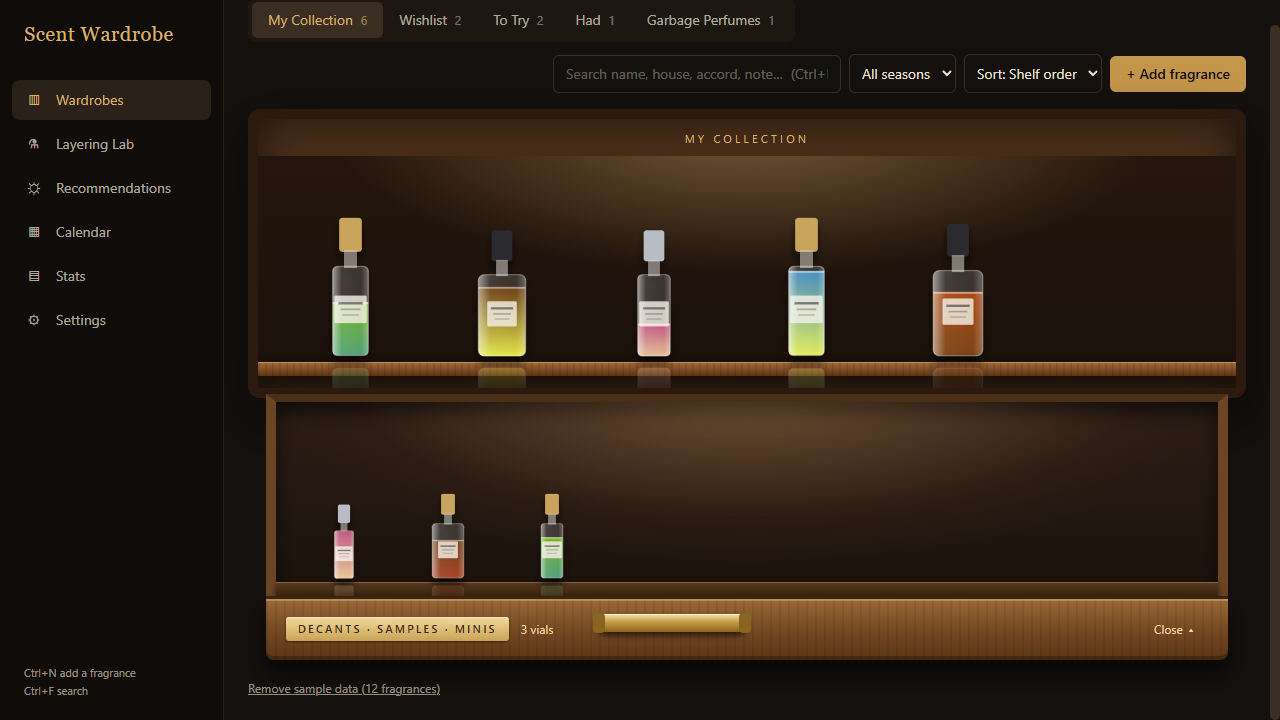
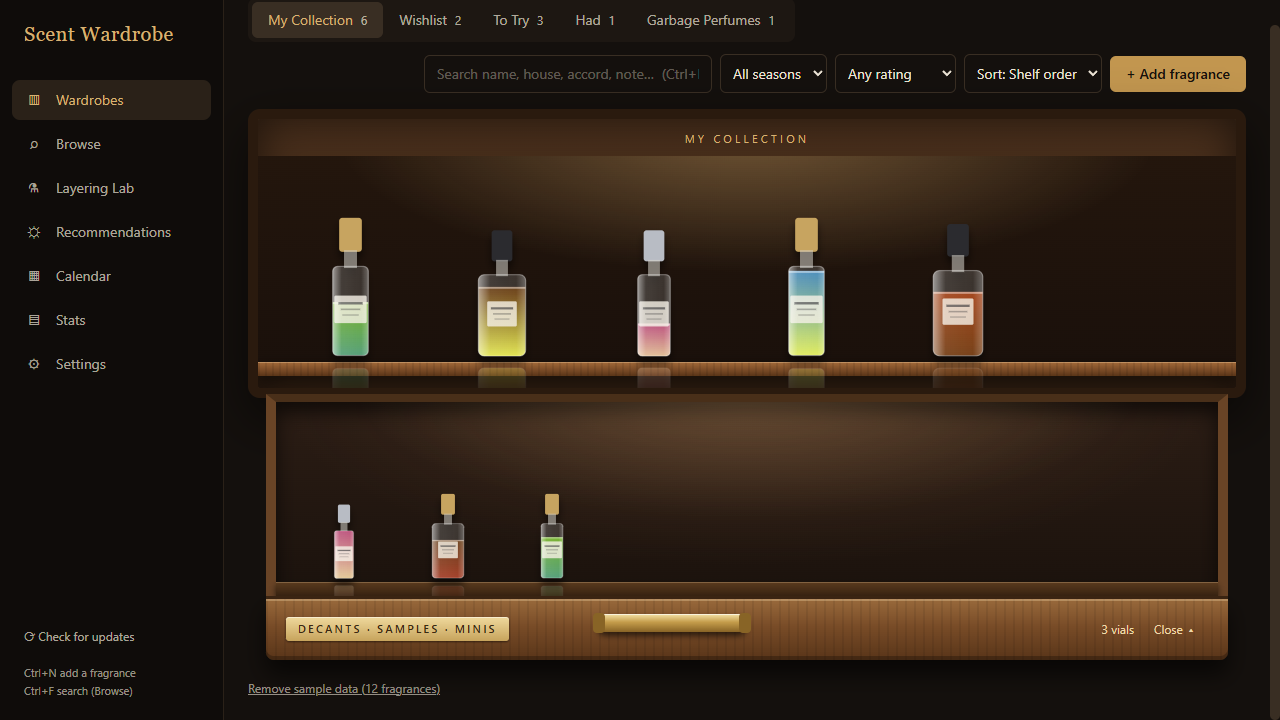
README, user guide and screenshots updated for ratings, Browse, several wardrobes and updates

diff --git a/README.md b/README.md
@@ -36,6 +36,7 @@ Built with Electron, React, TypeScript and SQLite. Runs on Windows and macOS (In
 - **Stats.** Most and least worn, wears and ml per month, leaderboards, bottles running low, cost per wear.
 - **Prices and currency.** Per bottle: what you paid and a market price you looked up (with date and where), price per ml, how much you saved or overpaid. Pick your currency in Settings.
 - **Adding fragrances.** Fuzzy search over your library and an optional imported dataset, a single Fragrantica page link, a whole Fragrantica profile (Have / Want / Had / custom shelves) with a preview first, a pasted list or CSV, or a manual form.
+- **Updates.** A **Check for updates** button (bottom of the sidebar and in Settings) asks GitHub for the newest release, shows its notes, and on Windows can download the installer, verify its checksum, back up your data and start it. Nothing is checked automatically.
 - **Safety.** Zip backup and restore, a weekly automatic backup, CSV export, light and dark themes.
 
 Details for each feature are in [INSTRUCTIONS.md](INSTRUCTIONS.md).
@@ -48,9 +49,9 @@ This project is as much about how it is built as what it does.
 - **SQLite with versioned migrations.** Ten migrations (`PRAGMA user_version`), each run in a transaction. Rules that must never be broken, such as the wishlist note, are enforced by database triggers as a last line of defence behind the API. A test builds a library at *every* schema version and upgrades it to the current one without losing a row.
 - **Pure engines.** The layering and recommendation logic are framework-free TypeScript in `src/shared`, tested without Electron or a database.
 - **Careful data handling.** Backups use SQLite's online backup (WAL-safe), restores validate the archive (size limits, integrity check, version check) and swap the file in atomically with a safety copy first, imports skip duplicates and survive damaged lines, and a database from a *newer* app version is refused rather than silently downgraded.
-- **Security posture.** `contextIsolation` and sandbox on, no Node in the renderer, a strict Content-Security-Policy, navigation and pop-ups locked down, a path-safe image protocol, downloads limited to Fragrantica's own hosts with size and time caps, CSV export that neutralises spreadsheet formulas, and web content from importers treated as untrusted (length limits, no scripts, no permissions).
+- **Security posture.** `contextIsolation` and sandbox on, no Node in the renderer, a strict Content-Security-Policy, navigation and pop-ups locked down, a path-safe image protocol, downloads limited to Fragrantica's own hosts with size and time caps, an updater that only talks to this repository's releases, verifies the installer's SHA-256 against the checksum GitHub publishes and backs up first, CSV export that neutralises spreadsheet formulas, and web content from importers treated as untrusted (length limits, no scripts, no permissions).
 - **Accessibility and layout.** Dialogs trap focus, Escape closes only the top layer, muted text meets WCAG AA contrast in both themes (checked with axe-core), and the UI is checked from 1100x640 up.
-- **Automated tests: 434 tests in 37 files**, run under Electron's own Node so the native SQLite module matches. They cover migrations, wear and bottle logic, backup and restore, the importers (including hostile input), both scoring engines, the calendar maths (including daylight-saving boundaries), price rounding, security helpers and performance with a 400-fragrance, 6,000-wear library.
+- **Automated tests: 446 tests in 38 files**, run under Electron's own Node so the native SQLite module matches. They cover migrations, wear and bottle logic, backup and restore, the importers (including hostile input), both scoring engines, the calendar maths (including daylight-saving boundaries), price rounding, security helpers and performance with a 400-fragrance, 6,000-wear library.
 
 ## Tech stack, and why
 
@@ -127,7 +128,7 @@ More in [docs/DEVELOPMENT.md](docs/DEVELOPMENT.md). Pushing a tag such as `v1.0.
 
 ## Privacy
 
-Your library never leaves your computer. The only network traffic is: current weather and city search from [Open-Meteo](https://open-meteo.com) (only the coordinates of the city you pick are sent), and Fragrantica pages and pictures when *you* ask for an import. There is no account, telemetry or analytics.
+Your library never leaves your computer. The only network traffic is: current weather and city search from [Open-Meteo](https://open-meteo.com) (only the coordinates of the city you pick are sent), Fragrantica pages and pictures when *you* ask for an import, and this repository's GitHub releases when *you* press **Check for updates** (no data about you or your library is sent). The app never checks for updates on its own. There is no account, telemetry or analytics.
 
 ## Credits and licence
 

diff --git a/INSTRUCTIONS.md b/INSTRUCTIONS.md
@@ -241,6 +241,23 @@ app), use **Settings → Fragrance data → Import a dataset…** and pick a `.c
 layouts are recognised automatically; otherwise you map the columns with a preview. Imported rows are only used for
 search, so they never fill your shelves, and the file is read in a stream so very large ones work.
 
+## Updating the app
+
+Press **Check for updates** at the bottom of the sidebar (or **Settings → Updates**). The app asks GitHub for the newest
+release of Scent Wardrobe, and only then; it never checks on its own, and nothing about you or your library is sent.
+
+- If you are up to date it says so.
+- If a newer version exists it shows the release notes. On **Windows**, **Download and install** downloads the installer,
+  checks it against the SHA-256 checksum GitHub published for that file, saves a backup of your data, starts the
+  installer and closes the app. Open the app again when the installer finishes. Windows may warn about an unknown
+  publisher because the installer is not code-signed. Your library is not touched by the installer.
+- **Open release page** opens the release in your browser instead. On **macOS** this is the only option: download the new
+  DMG and drag the app over the old one, as when installing.
+- If there is no internet or no release, you get a message and nothing changes.
+
+A new version may upgrade your database the first time it opens (the app says nothing, it just does it). That is why the
+update makes a backup first; you can also make your own under **Backup and restore**.
+
 ## Backup and restore
 
 **Settings → Backup and restore.**
@@ -286,6 +303,10 @@ method still works.
 
 **Weather is empty.** Set your city in Settings → Weather location, and check your internet connection. You can always
 type a temperature by hand.
+
+**Check for updates says it could not check.** It needs an internet connection and GitHub to be reachable. Nothing is
+changed by a failed check. If the in-app install is refused (for example the checksum did not match), use **Open release
+page** and install the downloaded file yourself.
 
 **I deleted something by mistake.** There is no undo, but there is a backup: **Settings → Backup and restore → Restore
 from a file…** and choose the newest automatic or manual backup.
